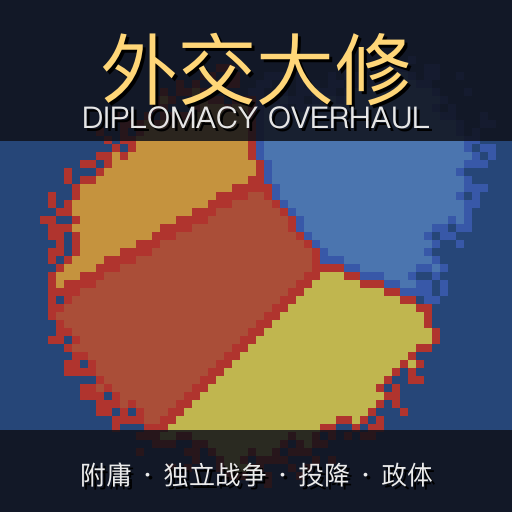
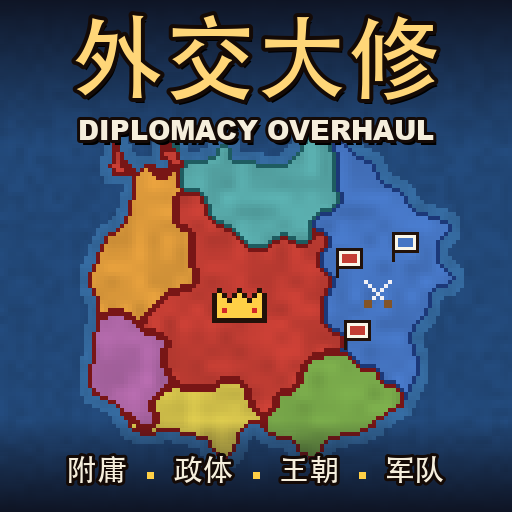
新封面：像素王国地图，帝国居中、附庸环绕
- 附庸的边界用帝国的颜色，和模组在王国地图上的效果一致；首都皇冠、边境军旗与交叉剑
- 底部关键词改为附庸、政体、王朝、军队
- 封面由 tools/cover.py 生成，README 顶部也放上封面

diff --git a/tools/cover.py b/tools/cover.py
@@ -1,0 +1,180 @@
+# 生成封面 preview.png（创意工坊封面、模组列表图标、README 头图）：
+# 像素风的王国地图，帝国居中，附庸的边界用帝国的颜色。改了功能就改底部关键词重新生成
+# 用法：python3 tools/cover.py [输出路径]，默认覆盖仓库根目录的 preview.png。字体用的是 macOS 自带的
+import math, os, random, sys
+from PIL import Image, ImageDraw, ImageFont, ImageFilter
+
+random.seed(7)
+N = 128          # 像素地图的格数
+S = 4            # 放大倍数 → 512
+W = N * S
+
+# ---------- 噪声 ----------
+def make_noise(cell, seed):
+    rnd = random.Random(seed)
+    g = {}
+    def val(ix, iy):
+        if (ix, iy) not in g: g[(ix, iy)] = rnd.random()
+        return g[(ix, iy)]
+    def f(x, y):
+        x /= cell; y /= cell
+        ix, iy = int(math.floor(x)), int(math.floor(y))
+        fx, fy = x - ix, y - iy
+        sx, sy = fx * fx * (3 - 2 * fx), fy * fy * (3 - 2 * fy)
+        a = val(ix, iy) + (val(ix + 1, iy) - val(ix, iy)) * sx
+        b = val(ix, iy + 1) + (val(ix + 1, iy + 1) - val(ix, iy + 1)) * sx
+        return a + (b - a) * sy
+    return f
+
+n1, n2, n3 = make_noise(16, 1), make_noise(7, 2), make_noise(5, 3)
+def fbm(x, y): return n1(x, y) * 0.65 + n2(x, y) * 0.35
+
+# ---------- 陆地 ----------
+cx, cy = N * 0.5, N * 0.59
+land = [[False] * N for _ in range(N)]
+for y in range(N):
+    for x in range(N):
+        d = math.hypot((x - cx) / 1.05, (y - cy) / 0.92) / (N * 0.5)
+        land[y][x] = d + (fbm(x, y) - 0.5) * 0.5 < 0.66
+
+# ---------- 王国 ----------
+# (中心, 填充色, 边界色, 宗主) —— 附庸的边界用宗主的颜色，和模组里王国地图的效果一样
+EMP_FILL, EMP_BORDER = (196, 62, 52), (120, 22, 22)
+kingdoms = [
+    dict(c=(60, 78), fill=EMP_FILL, border=EMP_BORDER),                       # 0 帝国
+    dict(c=(36, 66), fill=(224, 156, 60), border=EMP_BORDER),                 # 1 附庸
+    dict(c=(50, 106), fill=(214, 196, 76), border=EMP_BORDER),                # 2 附庸
+    dict(c=(82, 104), fill=(120, 168, 74), border=EMP_BORDER),                # 3 附庸
+    dict(c=(32, 92), fill=(176, 104, 168), border=EMP_BORDER),                # 4 附庸
+    dict(c=(98, 72), fill=(70, 118, 196), border=(28, 56, 120)),              # 5 独立的共和国（交战中）
+    dict(c=(64, 50), fill=(88, 170, 170), border=(30, 92, 96)),               # 6 独立
+]
+weights = [1.6, 0.95, 1.0, 1.0, 0.85, 1.3, 0.9]
+owner = [[-1] * N for _ in range(N)]
+for y in range(N):
+    for x in range(N):
+        if not land[y][x]: continue
+        best, bd = -1, 1e9
+        for i, k in enumerate(kingdoms):
+            kx, ky = k["c"]
+            d = math.hypot(x - kx, y - ky) / weights[i] + (n3(x + i * 31, y) - 0.5) * 9
+            if d < bd: bd, best = d, i
+        owner[y][x] = best
+
+for _ in range(3):
+    new = [row[:] for row in owner]
+    for y in range(1, N - 1):
+        for x in range(1, N - 1):
+            if owner[y][x] < 0: continue
+            cnt = {}
+            for dx in (-1, 0, 1):
+                for dy in (-1, 0, 1):
+                    o = owner[y + dy][x + dx]
+                    if o >= 0: cnt[o] = cnt.get(o, 0) + 1
+            best = max(cnt, key=cnt.get)
+            if cnt[best] >= 5: new[y][x] = best
+    owner = new
+
+def shade(c, f): return tuple(max(0, min(255, int(v * f))) for v in c)
+
+img = Image.new("RGB", (N, N))
+px = img.load()
+for y in range(N):
+    for x in range(N):
+        if not land[y][x]:
+            # 海：离岸近的浅
+            near = any(0 <= x + dx < N and 0 <= y + dy < N and land[y + dy][x + dx]
+                       for dx in range(-2, 3) for dy in range(-2, 3))
+            base = (52, 104, 156) if near else (34, 72, 120)
+            px[x, y] = shade(base, 0.94 + 0.12 * n2(x * 3, y * 3))
+            continue
+        o = owner[y][x]
+        k = kingdoms[o]
+        edge = False
+        for dx, dy in ((1, 0), (-1, 0), (0, 1), (0, -1)):
+            nx, ny = x + dx, y + dy
+            if not (0 <= nx < N and 0 <= ny < N) or not land[ny][nx] or owner[ny][nx] != o:
+                edge = True
+        if edge:
+            px[x, y] = k["border"]
+        else:
+            px[x, y] = shade(k["fill"], 0.9 + 0.16 * n2(x * 2 + o * 50, y * 2))
+
+big = img.resize((W, W), Image.NEAREST)
+bpx = big.load()
+
+def stamp_big(pattern, colors, gx, gy, unit):
+    # gx, gy：地图格子坐标；unit：每个图标像素占多少屏幕像素
+    for j, row in enumerate(pattern):
+        for i, ch in enumerate(row):
+            if ch not in colors: continue
+            for yy in range(unit):
+                for xx in range(unit):
+                    bpx[int(gx * S) + i * unit + xx, int(gy * S) + j * unit + yy] = colors[ch]
+
+K = (34, 18, 10)
+# 帝国首都的皇冠
+stamp_big([".k...k...k.",
+           "kgk.kgk.kgk",
+           "kggkgggkggk",
+           "kgggggggggk",
+           "kgrgggggrgk",
+           "kgggggggggk",
+           "kkkkkkkkkkk"], {"k": K, "g": (255, 208, 70), "r": (210, 40, 40)}, 53, 72, 5)
+# 军旗
+def flag(gx, gy, c):
+    stamp_big(["kkkkkkkkk",
+               "kwwwwwwwk",
+               "kwcccccwk",
+               "kwcccccwk",
+               "kwcccccwk",
+               "kwwwwwwwk",
+               "kkkkkkkkk",
+               "k........",
+               "k........",
+               "k........"],
+              {"k": K, "c": c, "w": (250, 246, 232)}, gx, gy, 3)
+flag(84, 62, EMP_FILL)
+flag(86, 80, EMP_FILL)
+flag(98, 58, (70, 118, 196))
+# 交战处的交叉剑
+stamp_big(["s.....s", ".s...s.", "..s.s..", "...s...", "..s.s..", "hh...hh", "hh...hh"],
+          {"s": (240, 240, 245), "h": (130, 84, 40)}, 91, 70, 4)
+
+# ---------- 文字 ----------
+d = ImageDraw.Draw(big, "RGBA")
+# 上下两条暗带
+for y in range(0, 150):
+    a = int(225 * (1 - y / 150) ** 1.2)
+    d.line([(0, y), (W, y)], fill=(12, 14, 26, a))
+for y in range(W - 92, W):
+    a = int(230 * ((y - (W - 92)) / 92) ** 0.9)
+    d.line([(0, y), (W, y)], fill=(12, 14, 26, a))
+
+zh = ImageFont.truetype("/System/Library/Fonts/STHeiti Medium.ttc", 92)
+en = ImageFont.truetype("/System/Library/Fonts/Supplemental/Arial Black.ttf", 27)
+tag = ImageFont.truetype("/System/Library/Fonts/STHeiti Medium.ttc", 30)
+
+def text_c(y, s, font, fill, outline=(20, 10, 6), ow=4, spacing=0):
+    bbox = d.textbbox((0, 0), s, font=font)
+    w = bbox[2] - bbox[0]
+    x = (W - w) / 2 - bbox[0]
+    d.text((x + 3, y + 5), s, font=font, fill=(0, 0, 0, 150))
+    d.text((x, y), s, font=font, fill=fill, stroke_width=ow, stroke_fill=outline)
+
+text_c(10, "外交大修", zh, (255, 214, 120))
+text_c(110, "DIPLOMACY OVERHAUL", en, (245, 238, 220), ow=3)
+words = ["附庸", "政体", "王朝", "军队"]
+ws = [d.textbbox((0, 0), w, font=tag)[2] for w in words]
+gap = 46
+x = (W - sum(ws) - gap * (len(words) - 1)) / 2
+for i, w in enumerate(words):
+    d.text((x, W - 58), w, font=tag, fill=(245, 238, 220), stroke_width=3, stroke_fill=(20, 10, 6))
+    if i < len(words) - 1:
+        cxd = x + ws[i] + gap / 2
+        d.rectangle([cxd - 3, W - 40, cxd + 3, W - 34], fill=(255, 208, 70))
+    x += ws[i] + gap
+
+out = sys.argv[1] if len(sys.argv) > 1 else os.path.join(os.path.dirname(os.path.abspath(__file__)), "..", "preview.png")
+big.save(out)
+print(os.path.abspath(out))

diff --git a/README.md b/README.md
@@ -1,5 +1,7 @@
 # 外交大修 Diplomacy Overhaul
 
+<img src="preview.png" alt="外交大修" width="320">
+
 为 WorldBox 加入更丰富的外交与战争玩法：附庸国、独立与投降、政体、王朝周期与大叛乱，以及一组直接指挥外交和军队的神力。
 
 - Steam 创意工坊：https://steamcommunity.com/sharedfiles/filedetails/?id=3817246294
